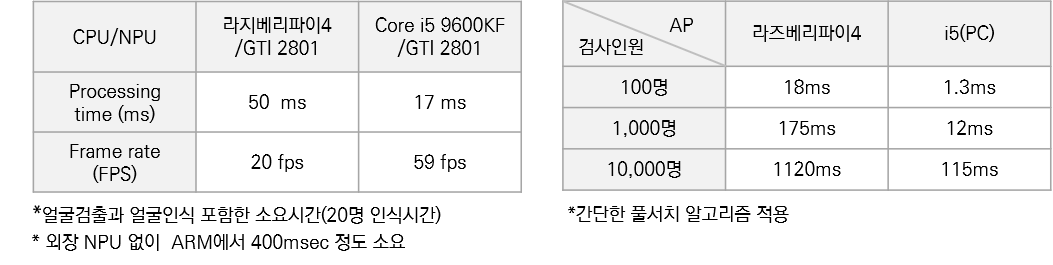
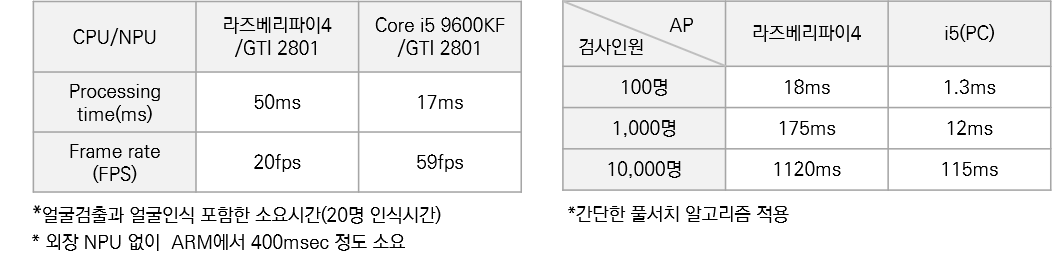
[Update] adjust font-size, text

diff --git a/_pages/home.html b/_pages/home.html
@@ -5,10 +5,24 @@ permalink: /
 
 <section class="hero diagonal">
 	<div class="container">
-		<h2>AI 바우처 공급기업</h2>
-    <p class="subtext editable">AI 활용ㆍ확산 촉진을 위하여 AI솔루션 수요기업에게 바우처를 발급하고, <br>수요기업은 바우처를 활용하여 공급기업의 원하는 AI솔루션을 활용할 수 있는<br> 정부지원 사업입니다</p>
-		<a class="button alt" href="http://www.bizinfo.go.kr/see/seea/selectSEEA140Detail.do?menuId=80001001001&pblancId=PBLN_000000000051348">AI 바우처 지원사업</a>
-	</div>
+		<h2>Edge Device AI 솔루션<br> 전문기업</h2>
+    <p class="subtext editable">Edge Device에서 실시간 데이터 처리를 위한<br> AI 솔루션 개발을 전문으로 하는 기업입니다</p>
+  </div>
+</section>
+
+<section class="diagonal alternate">
+	<div class="container halves">
+    <div class="container">
+      <h2>AI 바우처 공급기업</h2>
+      <p class="subtext editable">AI 활용ㆍ확산 촉진을 위하여 AI솔루션 수요기업에게 바우처를 발급하고, <br>수요기업은 바우처를 활용하여 공급기업의 원하는 AI솔루션을 활용할 수 있는<br> 정부지원 사업입니다</p>
+      <a class="button alt" href="http://www.bizinfo.go.kr/see/seea/selectSEEA140Detail.do?menuId=80001001001&pblancId=PBLN_000000000051348">AI 바우처 지원사업</a>
+    </div>
+    <div>
+      <ul class="image-list">
+        <li><img src="{{ site.baseurl }}/assets/images/ai_voucher.png" width="400"></li>
+      </ul>
+    </div>
+  </div>
 </section>
 
 <section class="diagonal alternate">
@@ -84,8 +98,10 @@ permalink: /
 		</div>
 		<div>
 			<ul class="image-grid">
-				{% for demo in site.data.demo.links limit: 4 %}
-					<li><a href="https://youtu.be/{{ demo.id }}"><img src="https://img.youtube.com/vi/{{ demo.id }}/0.jpg"></a></li>
+        {% for demo in site.data.demo.links limit: 4 %}
+        <li>
+          {% include video.html id=demo.id provider="youtube" %}
+        </li>
 				{% endfor %}
 			</ul>
 		</div>

diff --git a/_includes/video.html b/_includes/video.html
@@ -4,8 +4,8 @@
 <!-- Courtesy of embedresponsively.com //-->
 <div class="responsive-video-container">
 {% if video_provider == "youtube" %}
-  <iframe width="560" height="420" src="https://www.youtube-nocookie.com/embed/{{ video_id }}?color=white&theme=light\" frameborder="0" allowfullscreen></iframe>
+  <iframe src="https://www.youtube-nocookie.com/embed/{{ video_id }}?color=white&theme=light\" frameborder="0" allowfullscreen></iframe>
 {% elsif video_provider == "google-drive" %}
-  <iframe  width="560" height="420" src="https://drive.google.com/file/d/{{ video_id }}/preview" frameborder="0" allowfullscreen></iframe>
+  <iframe src="https://drive.google.com/file/d/{{ video_id }}/preview" frameborder="0" allowfullscreen></iframe>
 {% endif %}
 </div>

diff --git a/_sass/_elements.scss b/_sass/_elements.scss
@@ -1,6 +1,22 @@
 html {
-	background: $html-background-color;
+  /* apply a natural box layout model to all elements */
+  box-sizing: border-box;
+  background: $html-background-color;
+  font-size: 12px;
+
+  @include breakpoint($medium) {
+    font-size: 14px;
+  }
+
+  @include breakpoint($large) {
+    font-size: 16px;
+  }
+
+
+  -webkit-text-size-adjust: 100%;
+  -ms-text-size-adjust: 100%;
 }
+  
 
 html, body {
 	margin: 0;
@@ -59,6 +75,7 @@ h1, h2, h3, h4, h5, h6 {
 
 p, address, ul, ol, pre {
 	margin: 0 0 20px 0;
+  word-wrap: break-word;
 }
 
 p, a, address, ul, ol {

diff --git a/assets/css/styles.scss b/assets/css/styles.scss
@@ -2,12 +2,13 @@
 # Only the styles Sass file needs front matter (the dashes are enough)
 ---
 
-@import "_variables";
-@import "_elements";
-@import "_layout";
-@import "_contact";
-@import "_blog";
-@import "_forms";
-@import "_navigation";
-@import "_footer";
-@import "_cloudcannon";
+@import "vendor/breakpoint/breakpoint";
+@import "variables";
+@import "elements";
+@import "layout";
+@import "contact";
+@import "blog";
+@import "forms";
+@import "navigation";
+@import "footer";
+@import "cloudcannon";

diff --git a/_sass/_layout.scss b/_sass/_layout.scss
@@ -96,14 +96,14 @@ section {
 		}
 
 		p {
-			font-size: 1.5rem;
+			font-size: 1.2rem;
 			color: #fff;
 		}
 
 		a:not(.button) {
 			color: #fff;
 			font-style: italic;
-		}
+    }
 	}
 
 	&.alternate {
@@ -313,3 +313,18 @@ section {
 	}
 }
 
+iframe {
+  width: 320px;
+  height: 240px;
+  @include breakpoint($medium) {
+    width: 640px;
+    height: 480px;
+  }
+}
+
+.image-grid {
+  iframe {  
+    width: 100%;
+    height: 100%;
+  }
+}

diff --git a/_pages/company.md b/_pages/company.md
@@ -21,12 +21,12 @@ permalink: /company/
 4월 - **㈜히타치엘지데이터스토리지**와 기밀유지 협약 체결 및 **딥러닝 기반 얼굴인식 SW** 납품
 5월 - 중소벤처기업부 **디딤돌 창업과제** 서류 통과
 
-<!-- ---
+---
 
 <br>
 
 ### Members
 
->채규열 : 고려대학교 전자공학과 박사, 이오테크닉스, LG전자 CTO- (2006~2019)
-이권 : 연세대학교 전기전자공학과 박사, LG 전자 CTO (2013~2020)
-황태진 : 광운대학교 컴퓨터공학과 석사, LG전자 CTO, 힉스컴퍼니 (2017~) -->
+>**채규열** : 고려대학교 전자공학과 박사, 이오테크닉스, LG전자 CTO- (2006~2019)
+**이권** : 연세대학교 전기전자공학과 박사, LG 전자 CTO (2013~2020)
+**황태진** : 광운대학교 컴퓨터공학과 석사, LG전자 CTO, 힉스컴퍼니 (2017~)
